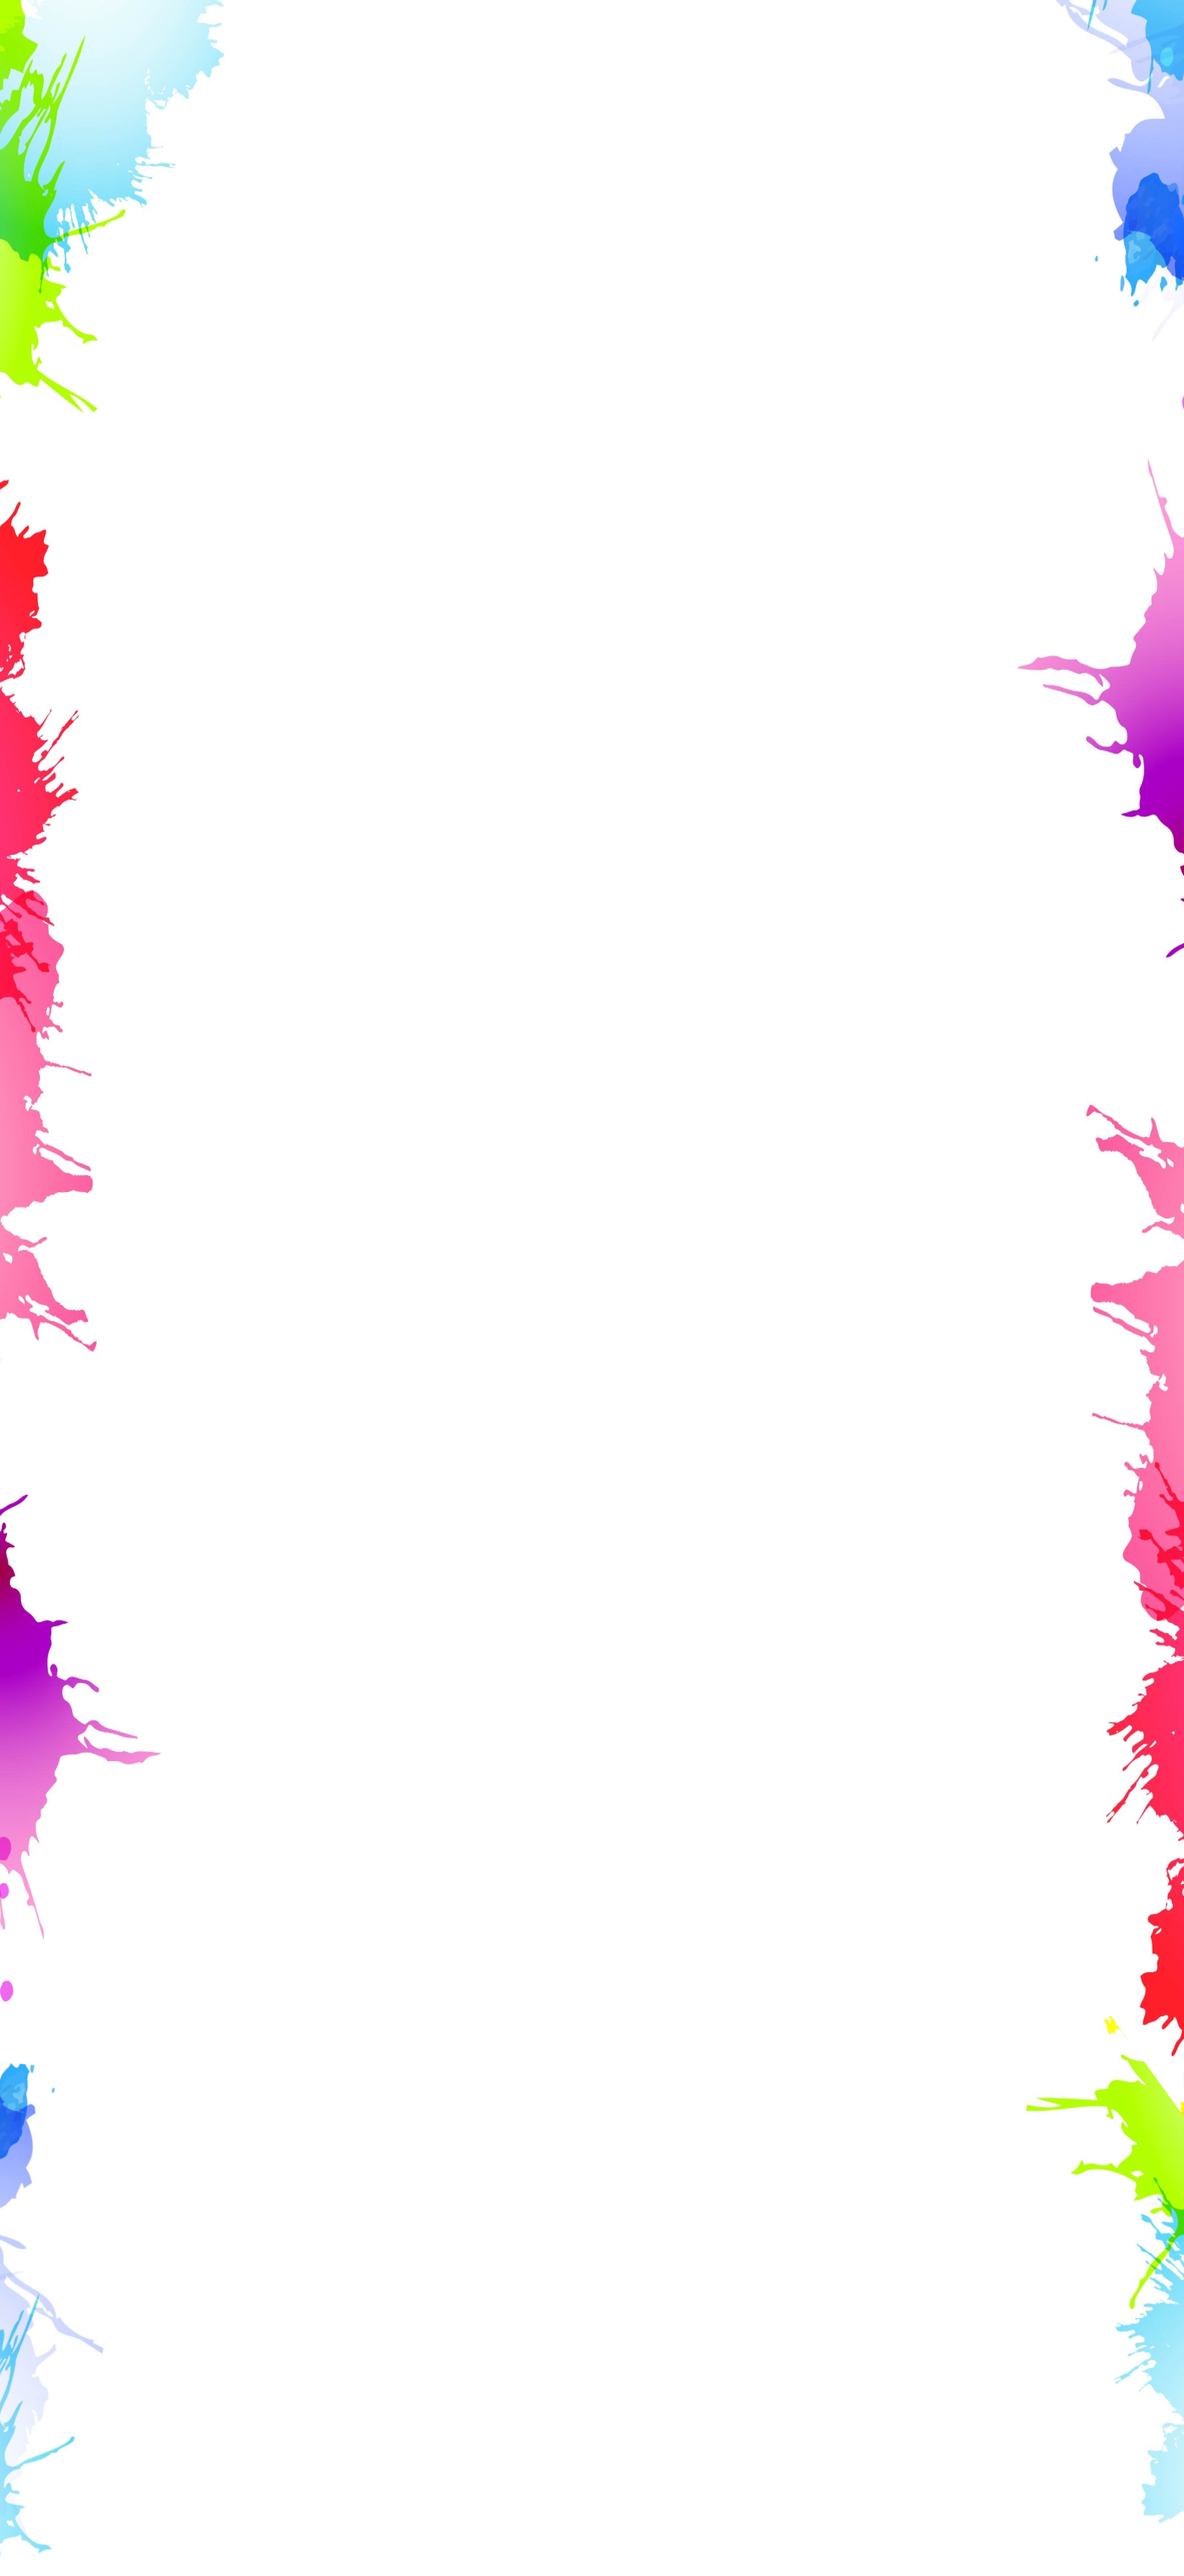
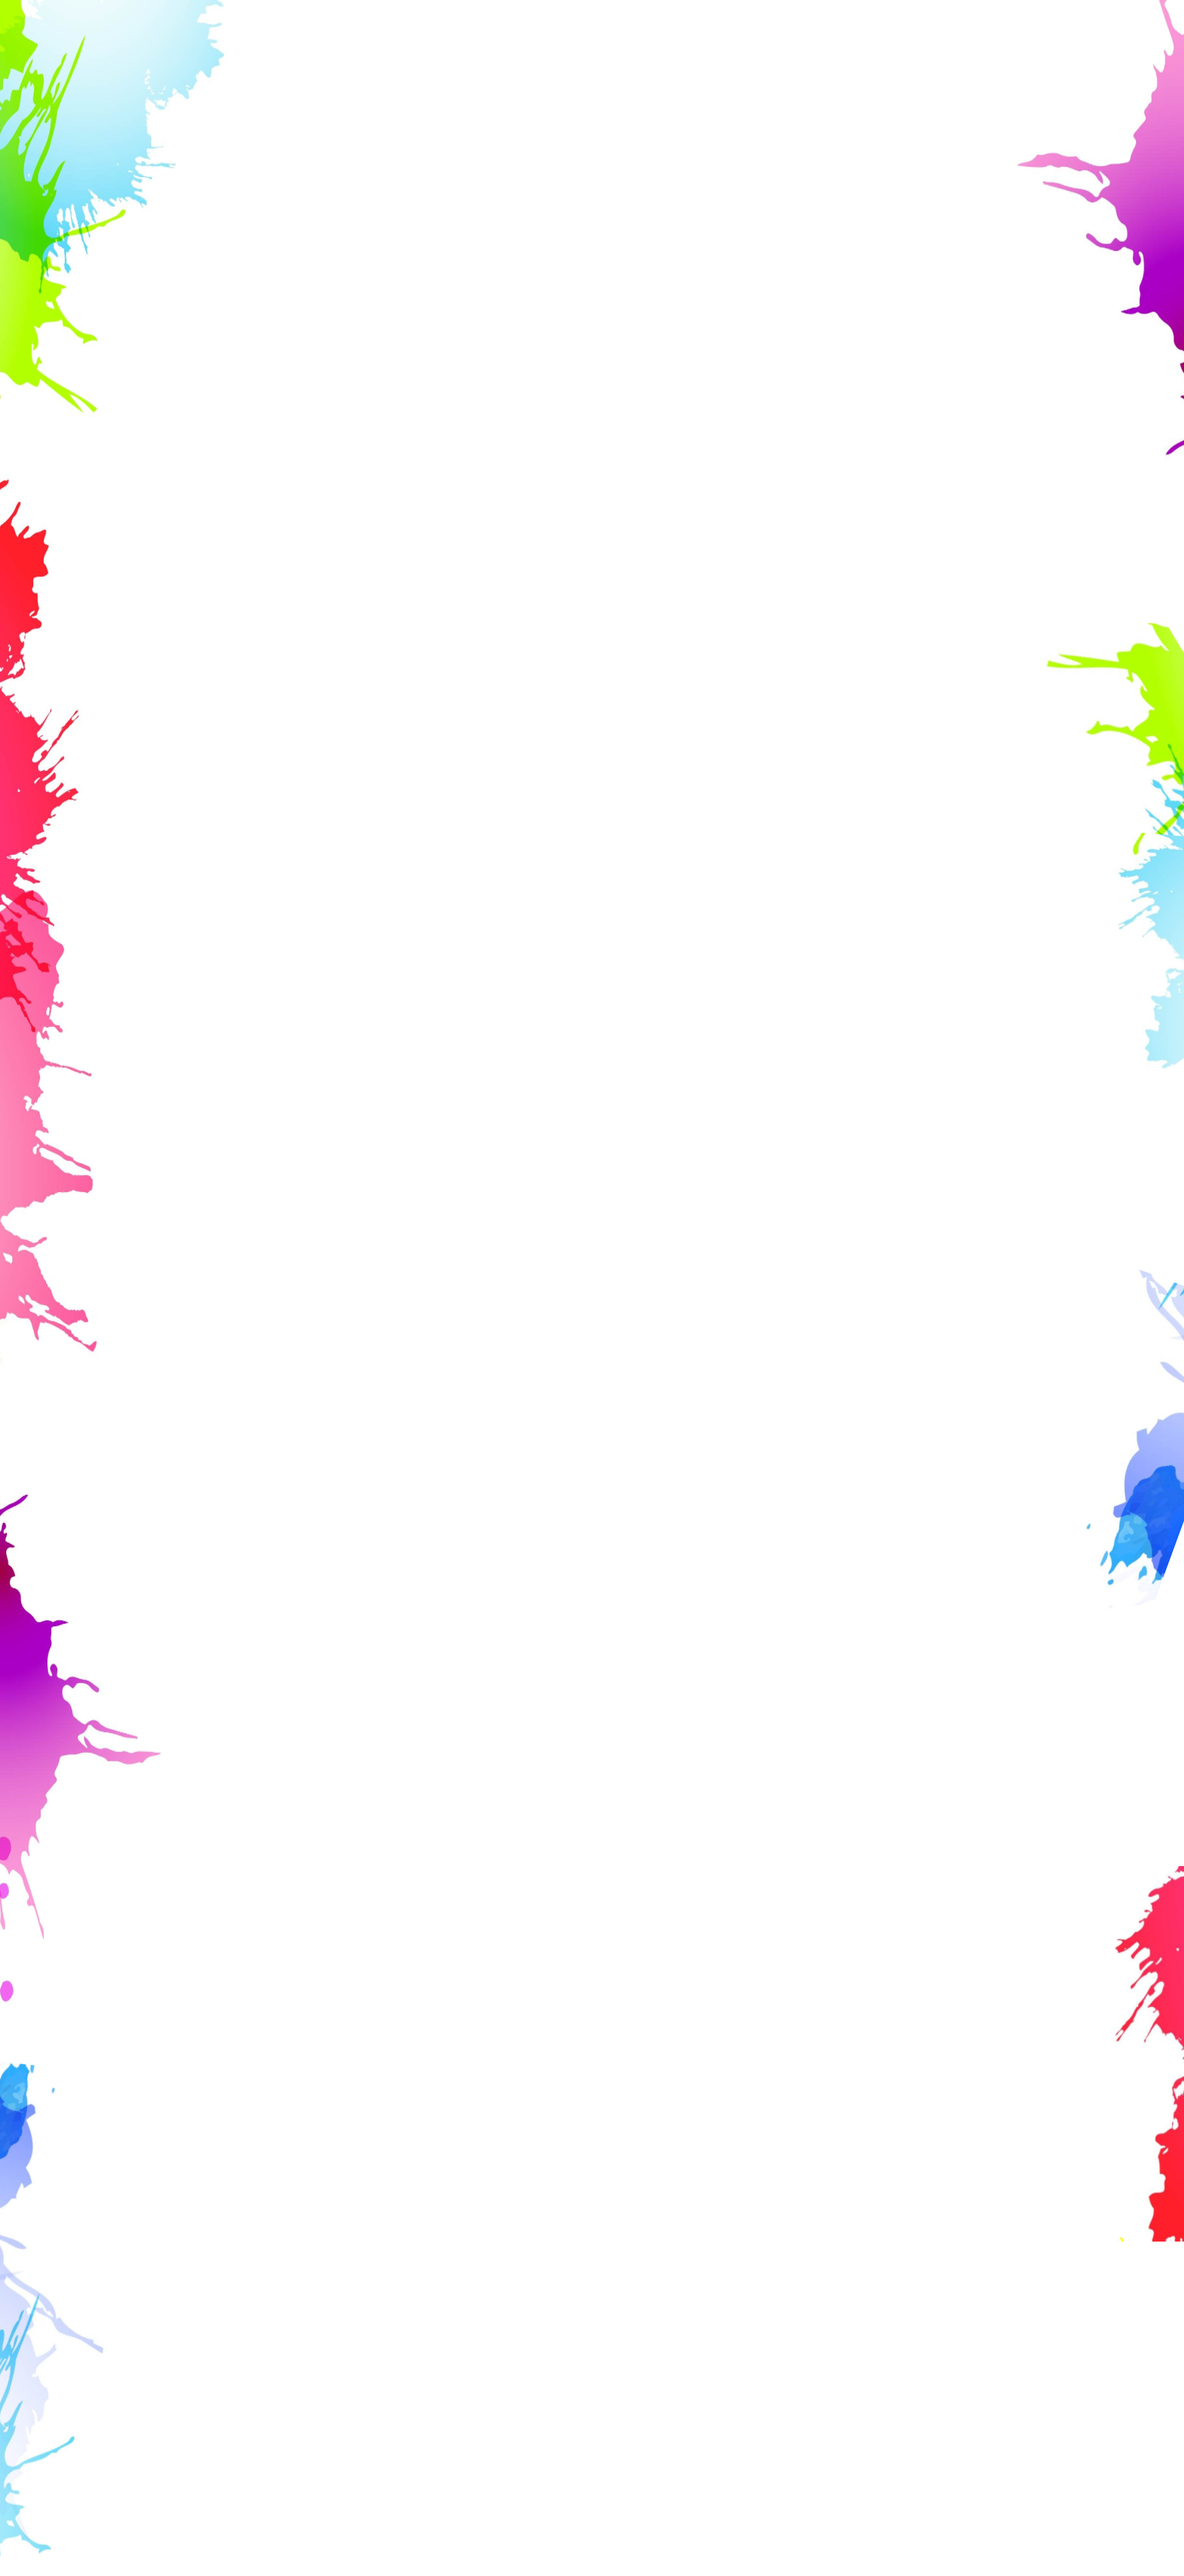
13/09

Changed region(s): [[0.8643, 0.1872, 1.0, 0.9984], [0.8643, 0.0, 1.0, 0.156]]

diff --git a/public/index.html b/public/index.html
@@ -10,10 +10,10 @@
   content= "EMPRESAS DE DISEÑO WEB EN VALDEPEÑAS, MANTENIMIENTOS DE PÁGINAS WEB, DISEÑO DE TIENDAS ONLINE Y POSICIONAMIENTO SEO Y SEM.">
   <link rel="stylesheet" href="./css/style.css">
   <link rel="stylesheet" href="./font/font.css">
-    <!-- <link rel="stylesheet" href="../node_modules/bootstrap/dist/css/bootstrap.min.css" >
-    <link rel="stylesheet" href="../node_modules/bootstrap/dist/js/bootstrap.bundle.min.js" > -->
-    <link href="https://cdn.jsdelivr.net/npm/bootstrap@5.1.1/dist/css/bootstrap.min.css" rel="stylesheet" integrity="sha384-F3w7mX95PdgyTmZZMECAngseQB83DfGTowi0iMjiWaeVhAn4FJkqJByhZMI3AhiU" crossorigin="anonymous">
-    <script src="https://cdn.jsdelivr.net/npm/bootstrap@5.1.1/dist/js/bootstrap.bundle.min.js" integrity="sha384-/bQdsTh/da6pkI1MST/rWKFNjaCP5gBSY4sEBT38Q/9RBh9AH40zEOg7Hlq2THRZ" crossorigin="anonymous"></script>
+    <link rel="stylesheet" href="../node_modules/bootstrap/dist/css/bootstrap.min.css" >
+    <link rel="stylesheet" href="../node_modules/bootstrap/dist/js/bootstrap.bundle.min.js" >
+    <!-- <link href="https://cdn.jsdelivr.net/npm/bootstrap@5.1.1/dist/css/bootstrap.min.css" rel="stylesheet" integrity="sha384-F3w7mX95PdgyTmZZMECAngseQB83DfGTowi0iMjiWaeVhAn4FJkqJByhZMI3AhiU" crossorigin="anonymous"> -->
+    <!-- <script src="https://cdn.jsdelivr.net/npm/bootstrap@5.1.1/dist/js/bootstrap.bundle.min.js" integrity="sha384-/bQdsTh/da6pkI1MST/rWKFNjaCP5gBSY4sEBT38Q/9RBh9AH40zEOg7Hlq2THRZ" crossorigin="anonymous"></script> -->
     
     <!-- <link rel="stylesheet" href="https://use.fontawesome.com/releases/v5.15.4/css/all.css" integrity="sha384-DyZ88mC6Up2uqS4h/KRgHuoeGwBcD4Ng9SiP4dIRy0EXTlnuz47vAwmeGwVChigm" crossorigin="anonymous"> -->
 
@@ -63,7 +63,7 @@
 
 
       <div class="front-text">
-        <h3 class="subtitle">Súmate al mundo digitals</h3>
+        <h3 class="subtitle">Súmate al mundo digital</h3>
         <h1 class="title">Diseño Web en Madrid.</h1>
         <p>Ofrecemos las necesidades más completas en diseño web en Madrid que nuestros clientes requieren para su integración al
           mundo de
@@ -113,7 +113,7 @@
               </p>
             </div>
           </div>
-          <div class="col-xl-6 col-12 mt-5 centrar centrar-1"><img src="./img/1.webp" alt="" class="webimg" loading="lazy"></div>
+          <div class="col-xl-6 col-12 mt-5 centrar centrar-1"><img src="./img/diseno-web.png" alt="" class="webimg" loading="lazy"></div>
         </div>
         <div class="row mt-5">
           <div class="col-xl-6 col-12 centrar row-1"><img src="./img/2.webp" alt="" class="tiendaimg centrar-1" loading="lazy">></div>
@@ -229,18 +229,18 @@
 
  
 <!-- Footer -->
-<footer class="text-center text-lg-start  text-muted colorfooter pt-3">
+<footer class="text-center text-lg-start  text-muted colorfooter pt-1">
   <!-- Section: Social media -->
   
   <!-- Section: Social media -->
 
   <!-- Section: Links  -->
   <section class="">
-    <div class="container text-center text-md-start mt-5">
+    <div class="container text-center text-md-start mt-1">
       <!-- Grid row -->
       <div class="row mt-3">
         <!-- Grid column -->
-        <div class="col-md-3 col-lg-4 col-xl-3 mx-auto mb-4">
+        <div class="col-md-3 col-lg-4 col-xl-3 mx-auto mb-1">
           <!-- Content -->
           <img src="./img/Logo-estilo-y-diseno-1.png" alt="" class="navbar-brand logo">
 
@@ -268,53 +268,55 @@
         </div>
 
         <!-- Grid column -->
-        <div class="col-md-2 col-lg-2 col-xl-2 mx-auto mb-4 text-white linksfront">
+        <div class="col-md-2 col-lg-2 col-xl-2 mx-auto  text-white linksfront d-flex flex-column">
           <!-- Links -->
 
-          <h5 class="text-uppercase fw-bold mb-4">
+          <h5 class="text-uppercase fw-bold">
             Servicios
           </h5>
         
-          <p>
-            <a class="nav-link active footext text-white" aria-current="page" href="#">Home</a>
-          </p>
-          <p>
-            <a class="nav-link active footext text-white" aria-current="page"
-            href="https://www.xn--estiloydiseo-khb.com/servicios/">Servicios</a>
-          </p>
-          <p>
-            <a class="nav-link active footext text-white" aria-current="page"
-            href="https://www.xn--estiloydiseo-khb.com/diseno-web/">Diseño Web</a>
-          </p>
-          <p>
-            <a class="nav-link active footext text-white" aria-current="page"
-                href="https://www.xn--estiloydiseo-khb.com/trabajos/">Trabajos</a>
-          </p>
+          <div class="d-flex flex-column bd-highlight">
+            <p>
+              <a class="footext text-white" aria-current="page" href="#">Home</a>
+            </p>
+            <p>
+              <a class="footext text-white" aria-current="page"
+              href="https://www.xn--estiloydiseo-khb.com/servicios/">Servicios</a>
+            </p>
+            <p>
+              <a class="footext text-white" aria-current="page"
+              href="https://www.xn--estiloydiseo-khb.com/diseno-web/">Diseño Web</a>
+            </p>
+            <p>
+              <a class="footext text-white" aria-current="page"
+                  href="https://www.xn--estiloydiseo-khb.com/trabajos/">Trabajos</a>
+            </p>
+          </div>
         </div>
         <!-- Grid column -->
 
 
         <!-- Grid column -->
-        <div class="col-md-3 col-lg-2 col-xl-2 mx-auto mb-4 text-white linksfront">
+        <div class="col-md-3 col-lg-2 col-xl-2 mx-auto  text-white linksfront">
           <!-- Links -->
-          <h5 class="text-uppercase fw-bold mb-4">
+          <h5 class="text-uppercase fw-bold">
             Servicios
           </h5>
     
           <p>
-            <a class="nav-link active footext text-white" aria-current="page"
+            <a class="footext text-white" aria-current="page"
                 href="https://www.xn--estiloydiseo-khb.com/posicionamiento/">Posicionamiento</a>
           </p>
           <p>
-            <a class="nav-link active footext text-white" aria-current="page"
+            <a class="footext text-white" aria-current="page"
                 href="https://www.xn--estiloydiseo-khb.com/publicidad/">Publicidad</a>
           </p>
           <p>
-            <a class="nav-link active footext text-white" aria-current="page"
+            <a class="footext text-white" aria-current="page"
             href="https://www.xn--estiloydiseo-khb.com/informatica/">informatica</a>
           </p>
           <p>
-            <a class="nav-link active footext text-white" aria-current="page"
+            <a class="footext text-white" aria-current="page"
                 href="https://www.xn--estiloydiseo-khb.com/contacto/#">Contacto</a>
           </p>
         </div>

diff --git a/public/css/style.css b/public/css/style.css
@@ -117,7 +117,7 @@
     justify-items: center;
  }
  .fondocolor{
-    background-image: url("../img/21212.webp");
+    background-image: url("../img/323232.webp");
     background-size:  cover;
     background-repeat: no-repeat;
     display: grid;
@@ -453,7 +453,7 @@
     .imgmant{
         height: 17.5rem;
         width: 25rem;
-        object-fit: contain;
+        object-fit: contain;    
         
     }
 
@@ -485,8 +485,15 @@
 
 
 .colorfooter {
-    background-color: #154D80
+    
+    background-color: #154D80;
+    
+    
 }
 .text-footer{
     font-size: 16px;
+}
+
+.linksfront{
+    /* background-color: #5EFF08; */
 }
